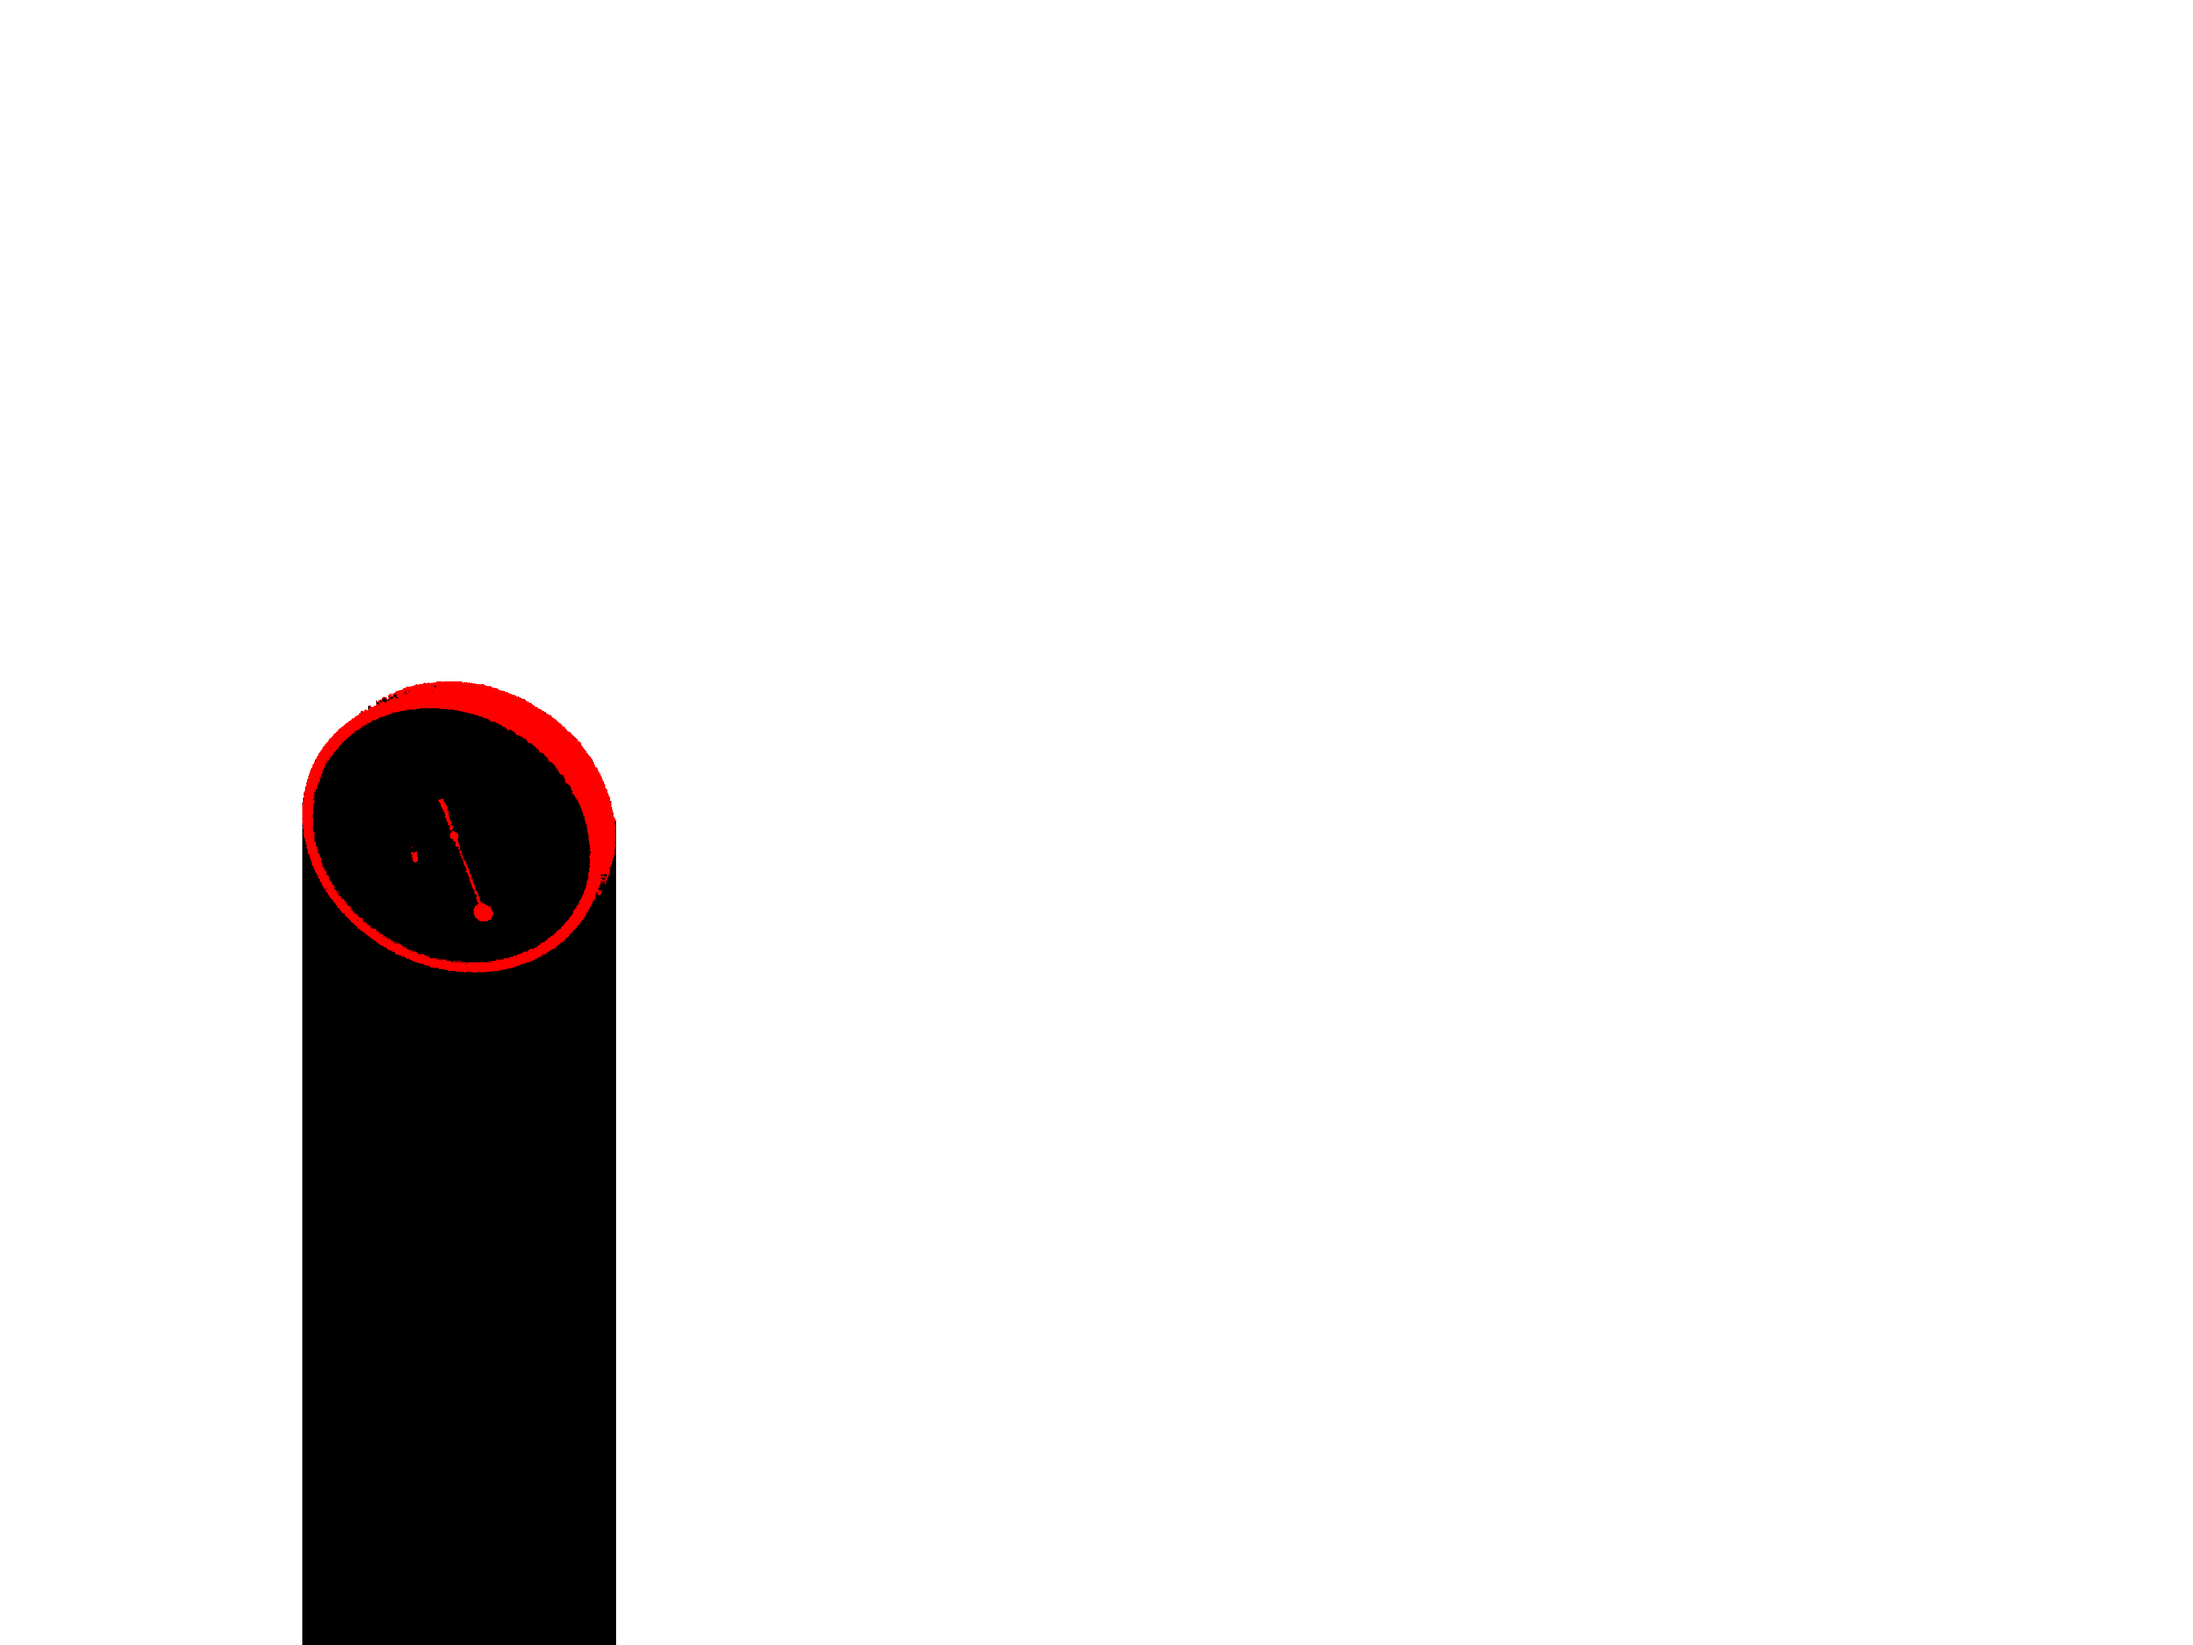
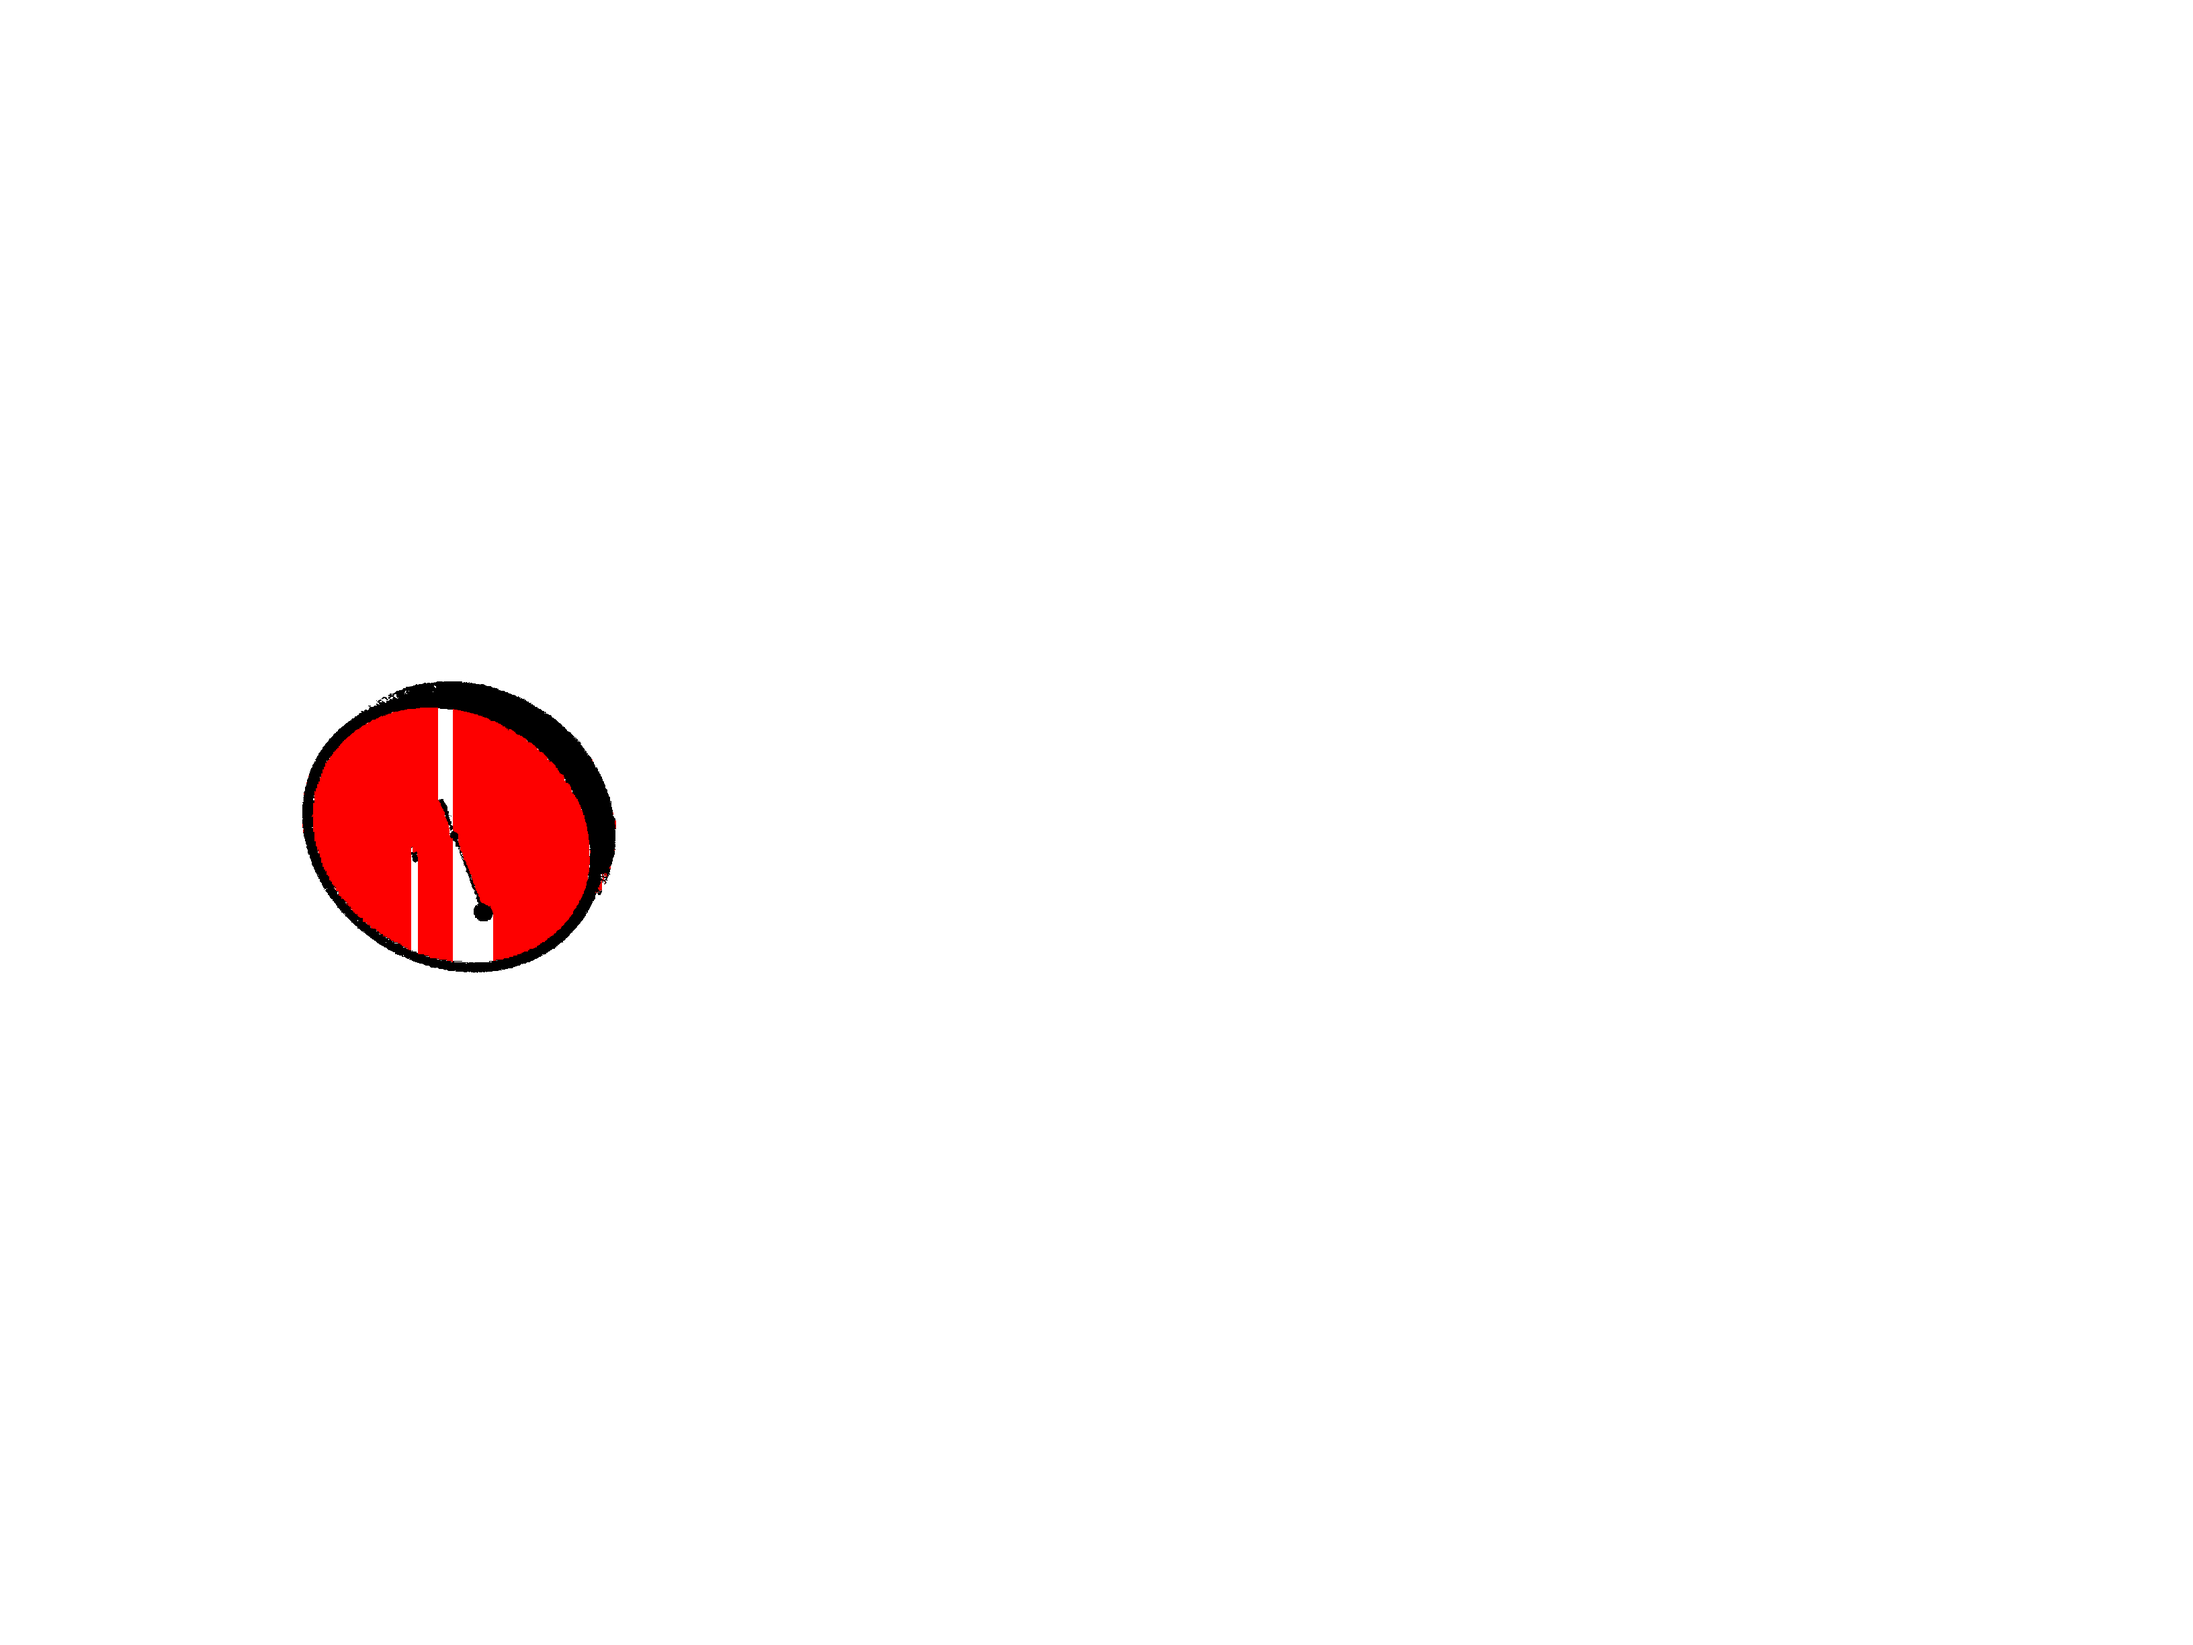
fill clock, missing pointer problem

Changed region(s): [[0.125, 0.4036, 0.2812, 1.0]]

diff --git a/segmenter.js b/segmenter.js
@@ -1,15 +1,17 @@
 const Jimp = require('jimp');
+const BFS = require('./BFS');
 
 const WHITE = 4294967295;
 const BLACK = 255;
+
+const BROWN = 4294902015;
 const RED = 4278190335;
-// const BROWN = 4294902015;
-// const YELLOW = 16777215;
+const YELLOW = 16777215;
 
 const BEFORE = 'BEFORE';
 const BORDER = 'BORDER';
 const WITHIN = 'WITHIN';
-const AFTER = 'AFTER';
+// const AFTER = 'AFTER';
 
 
 exports.getClock = function (image, image_name) {
@@ -25,10 +27,73 @@ function getRedBorder(image, image_name) {
   let distance = getDistanceAllPixels(image, RED); // calculate the distance as space point from all pixels to a red color
   distance = normalizeDistance(distance); // make all distances to be between 0 and 255
   image = recolor(image, distance);
-  image.write(`./result/${image_name}/border.jpg`);
+  // image.write(`./result/${image_name}/border.jpg`);
   console.log('---', `${image_name}: border saved`);
+  // image = removeSmallPieces(image, image_name);
   return image;
 }
+
+
+// function getAreaColor(image, _i, _j) {
+//   const I = [_i - 1, _i + 1];
+//   const J = [_j - 1, _j + 1];
+//   let max = RED;
+//   for (let i = 0; i < I.length; i++) {
+//     const color = image.getPixelColor(I[i], _j);
+//     if (color !== WHITE && color !== BLACK && color > max) {
+//       console.log('entro');
+//       max = color;
+//     }
+//   }
+//   for (let j = 0; j < J.length; j++) {
+//     const color = image.getPixelColor(_i, J[j]);
+//     if (color !== WHITE && color !== BLACK && color > max) {
+//       console.log('entro');
+//       max = color;
+//     }
+//   }
+//   return max + 1;
+// }
+//
+// function notifyNeighbours(image, _i, _j, newColor) {
+//   const I = [_i - 1, _i, _i + 1];
+//   const J = [_j - 1, _j, _j + 1];
+//   for (let i = 0; i < I.length; i++) {
+//     for (let j = 0; j < J.length; j++) {
+//       const color = image.getPixelColor(I[i], J[j]);
+//       if (color !== WHITE && color !== BLACK && color < newColor) {
+//         image.setPixelColor(newColor, I[i], J[j]);
+//         notifyNeighbours(image, i[i], J[j], newColor);
+//       }
+//     }
+//   }
+// }
+
+// function divideInAreas(image) {
+//   const WIDTH = image.bitmap.width;
+//   const HEIGHT = image.bitmap.height;
+//   for (let i = 0; i < WIDTH; i++) {
+//     for (let j = 0; j < HEIGHT; j++) {
+//       const color = image.getPixelColor(i, j);
+//       const isWhite = color === WHITE;
+//       if (!isWhite) {
+//         const newColor = getAreaColor(image, i, j);
+//         image.setPixelColor(newColor, i, j);
+//         // notifyNeighbours(image, i, j, newColor);
+//       }
+//     }
+//   }
+//   return image;
+// }
+
+// function removeSmallPieces(image, image_name) {
+//   console.log('------', `${image_name}: save areas`);
+//   const areas = divideInAreas(image);
+//   // const oneArea = getBiggestArea(areas);
+//   areas.write(`./result/${image_name}/areas.jpg`);
+//   console.log('------', `${image_name}: areas saved`);
+//   return areas;
+// }
 
 
 function recolor(image, distance) {
@@ -55,103 +120,113 @@ function normalizeDistance(distance) {
 function getDistanceAllPixels(image, ref) {
   const WIDTH = image.bitmap.width;
   const HEIGHT = image.bitmap.height;
-  distance = [];
+  const distance = [];
   for (let i = 0; i < WIDTH; i++) {
     distance[i] = [];
     for (let j = 0; j < HEIGHT; j++) {
       const color = image.getPixelColor(i, j);
       const rgba = Jimp.intToRGBA(color);
-      v = [rgba.r, rgba.g, rgba.b];
+      const v = [rgba.r, rgba.g, rgba.b];
       distance[i][j] = pointDistance(v, ref);
     }
   }
   return distance;
 }
 
-function isInBorder(color, pos, isBlack) {
-  if (!pos.inBorder && isBlack) {
-    pos.inBorder = true;
-    // console.log('in border', pos.inBorder);
-  } else if (pos.inBorder) {
-    if (!isBlack) {
-      pos.inBorder = false;
-      pos.isFilling = true;
-      // console.log(pos.isFilling);
-    }
-  }
-  return pos.inBorder;
-}
-
-function isWithin(color, pos, isBlack) {
-  if (pos.isFilling && isBlack) {
-    pos.filled = true;
-    pos.isFilling = false;
-    pos.isInBorder = true;
-  }
-  return pos.isFilling;
-}
-
-function shouldReset(color, pos, isBlack) {
-  return false;
-}
-
-function whereIsIt(color, pos, isBlack) {
-  if (shouldReset(color, pos, isBlack)) {
-    return RESET;
-  }
-  if (isInBorder(color, pos, isBlack)) {
-    return BORDER;
-  }
-  if (isWithin(color, pos, isBlack)) {
-    return FILLING;
-  }
-  return BACKGROUND;
-}
-
-function getColor(area) {
-  switch (area) {
-  case BORDER:
-    return RED;
-  case FILLING:
-    return BLACK;
-  case RESET:
-    return BLACK;
-    break;
-  default:
-    return WHITE;
+function inBefore(color, line, i, j) {
+  if (color === BLACK) {
+    line.status = BORDER;
+    const p = {};
+    p.start = j;
+    p.finish = j;
+    line.points.push(p);
   }
 }
 
-function fillClock(image, image_name) {
-  console.log('------', `${image_name}: save filled`);
+function inBorder(color, line, i, j) {
+  if (color === BLACK) {
+    const p = getLastPoint(line);
+    p.finish = j;
+  } else {
+    line.status = BEFORE;
+  }
+}
+
+function getLastPoint(line) {
+  if (line.points.length === 0) {
+    line.points.push({});
+  }
+  return line.points[line.points.length - 1];
+}
+
+function getInnerBorders(line, HEIGHT) {
+  if (line.points.length === 2) {
+    return {
+      start: line.points[0].finish,
+      finish: line.points[1].start,
+    };
+  } else if (line.points.length < 2) {
+    return {
+      start: HEIGHT,
+      finish: HEIGHT,
+    };
+  }
+  const distances = [];
+  for (let i = 0; i < line.points.length - 1; i++) {
+    const p = {
+      start: line.points[i].finish,
+      finish: line.points[i + 1].start,
+    };
+    p.distance = p.finish - p.start;
+    distances.push(p);
+  }
+  distances.sort((a, b) => {
+    return b.distance - a.distance;
+  });
+  return distances[0];
+}
+
+function paintLines(image) {
   const WIDTH = image.bitmap.width;
   const HEIGHT = image.bitmap.height;
   for (let i = 0; i < WIDTH; i++) {
-    const status = {
-      current: BEFORE,
+    const line = {
+      status: BEFORE,
+      points: [],
     };
     for (let j = 0; j < HEIGHT; j++) {
-      // console.log('---------------', i, j);
       const color = image.getPixelColor(i, j);
-      const isBlack = color == BLACK;
-      const area = whereIsIt(color, pos, isBlack);
-      // console.log(area);
-      const newColor = getColor(area);
-      if (area == BORDER) {
-        console.log();
-        // console.log(i, j);
+      if (line.status === BEFORE) {
+        inBefore(color, line, i, j);
+      } else {
+        inBorder(color, line, i, j);
       }
-      // console.log(newColor);
-      // console.log(pos, isBlack);
-      image.setPixelColor(newColor, i, j);
-      if (area == RESET) {
-        j = -1;
+    }
+    const borders = getInnerBorders(line, HEIGHT);
+    if (borders) {
+      for (let k = 0; k < borders.start; k++) {
+        // image.setPixelColor(WHITE, i, k);
+      }
+      for (let k = borders.start; k < borders.finish; k++) {
+        image.setPixelColor(RED, i, k);
+      }
+      for (let k = borders.finish; k < HEIGHT; k++) {
+        // image.setPixelColor(WHITE, i, k);
       }
     }
   }
-  image.write(`./result/${image_name}/filled.jpg`);
-  console.log('------', `${image_name}: filled saved`);
   return image;
+}
+
+
+function fillClock(image, image_name) {
+  // image = paintHoles(image);
+  console.log('------', `${image_name}: save filled`);
+  const filled = paintLines(image);
+  image.write(`./result/${image_name}/filled.jpg`);
+
+  console.log('------', `${image_name}: filled saved`);
+  return filled;
 }
 
 
